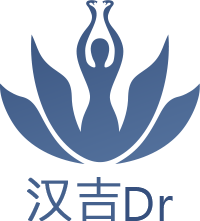
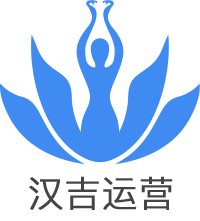
bug修复

diff --git a/src/pages/packagePay/index.vue b/src/pages/packagePay/index.vue
@@ -25,12 +25,20 @@
             <div class="provider" v-if="data.provider">
               <div class="count">{{data.count}}</div>
               <div class="provider-info" v-if="data.provider.info">
+                <img v-if="data.provider.type === 'Doctor'" class="img" :src="data.provider.info.headImageUrl" alt="" />
+                <img v-if="data.provider.type === 'ReservationLocation'" class="hospital-icon" src="/static/images/service_hospital.png" alt="" srcset="">
+                <div class="name-professional">
+                  <div class="provider-name">{{data.provider.info.name}}</div>
+                  <div class="provider-professional" v-if="data.provider.type === 'Doctor'">{{data.provider.info.professionalTitle}}</div>
+                </div>
+              </div>
+              <!-- <div class="provider-info" v-if="data.provider.info">
                 <img class="img" :src="data.provider.info.headImageUrl" alt="" />
                 <div class="name-professional">
                   <div class="provider-name">{{data.provider.info.name}}</div>
                   <div class="provider-professional">{{data.provider.info.professionalTitle}}</div>
                 </div>
-              </div>
+              </div> -->
             </div>
             <div v-else>{{data.count}}</div>
           </div>
@@ -65,7 +73,7 @@ export default {
   onLoad(options) {
     Object.assign(this.$data, this.$options.data())
     this.contractParam = wx.getStorageSync('contractParam')
-    wx.removeStorageSync('contractParam')
+    // wx.removeStorageSync('contractParam')
     this.healthRecordId = this.contractParam.healthRecordId
     this.servicePackageId = this.contractParam.servicePackageId
     this.getHeathRecord()
@@ -85,12 +93,12 @@ export default {
           let provider = this.contractParam.designatedProviders.find(item => item.servicePackageItemId === obj.id)
           obj.provider = provider ? {
             type: provider.provider.type,
-            identity: provider.provider.identity
+            identity: provider.provider.identity,
+            name: provider.provider.name
           } : null
           return obj
         })
-        let doctorIDs = list.filter(obj => obj.provider && obj.provider.type === 'Doctor').map(obj => obj.provider.identity)
-        this.handleData(list, doctorIDs)
+        this.handleData(list)
         this.name = res.name
         this.price = res.sellingFee
       })
@@ -104,7 +112,16 @@ export default {
         this.patientAge = new Date().getFullYear() - new Date(res.dob).getFullYear()
       })
     },
-    handleData(list, doctorIDs) {
+    handleData(list) {
+      list = list.map(obj => {
+        if (obj.provider && obj.provider.type === 'ReservationLocation') {
+          obj.provider.info = {
+            name: obj.provider.name
+          }
+        }
+        return obj
+      })
+      let doctorIDs = list.filter(obj => obj.provider && obj.provider.type === 'Doctor').map(obj => obj.provider.identity)
       if(doctorIDs.length) {
         this.httpFly.post({
         query: `query{
@@ -228,6 +245,11 @@ export default {
                 width: 40rpx;
                 height: 40rpx;
                 border-radius: 50%;
+              }
+              .hospital-icon {
+                display: block;
+                width: 48rpx;
+                height: 48rpx;
               }
               .name-professional {
                 display: flex;

diff --git a/src/pages/appointmentDetail/index.vue b/src/pages/appointmentDetail/index.vue
@@ -30,7 +30,8 @@
             <div class="label">预约人</div>
             <div class="value">{{healthRecordInfo.name}} {{healthRecordInfo.gender}} {{healthRecordInfo.age}}岁</div>
           </div>
-          <textarea class="remark" v-model="remark" disabled @click="showRemark=true"></textarea>
+          <div class="remark" v-if="showRemark">{{remark}}</div>
+          <textarea class="remark" v-else v-model="remark" disabled @click="showRemark=true"></textarea>
         </div>
       </div>
       <div class="content">
@@ -294,12 +295,15 @@ export default {
           }
         }
         .remark {
+          box-sizing: border-box;
           margin-top: 30rpx;
           padding: 20rpx;
           height: 180rpx;
           background: rgba(245,245,245,1);
           border: 1rpx solid rgba(225, 225, 225, 1);
           border-radius: 10rpx;
+          font-size: 30rpx;
+          color: #333;
         }
       }
     }

diff --git a/src/pages/servicePackageLoading/index.vue b/src/pages/servicePackageLoading/index.vue
@@ -119,7 +119,7 @@ export default {
       let servicePackageId = serviceLoadingConfig.servicePackageId
       let healthRecordId = serviceLoadingConfig.healthRecordId
       if(configList.length === step) {
-        let designatedProviders = configList.filter(obj => obj.IsRequiredProvider && obj.ProviderIdentity).map(obj => {
+        let designatedProviders = configList.filter(obj => obj.ProviderIdentity).map(obj => {
           return {
             servicePackageItemId: obj.ItemID,
             provider: {
@@ -177,7 +177,7 @@ export default {
             this.handlerProvider()
           } else {
             wx.showModal({
-              content: '当前服务没有提供者，是否进行选择?',
+              content:  currentConfig.ServiceName + '没有提供者，是否进行选择?',
               success (res) {
                 if (res.confirm) {
                   _self.handlerProvider()

diff --git a/src/pages/wxAuth/index.vue b/src/pages/wxAuth/index.vue
@@ -21,7 +21,7 @@ import { envConfig } from '@/env/index'
 export default {
   data() {
     return {
-      launchList: [envConfig.FILEBASEURL + '/image/launch4.png', envConfig.FILEBASEURL + '/image/launch5.png', envConfig.FILEBASEURL + '/image/launch6.png']
+      launchList: [envConfig.FILEBASEURL + '/image/launch7.png', envConfig.FILEBASEURL + '/image/launch8.png', envConfig.FILEBASEURL + '/image/launch9.png']
     }
   },
   onLoad(options) {
@@ -82,7 +82,7 @@ export default {
   .login-btn {
     margin: 100rpx 100rpx 0;
     height: 100rpx;
-    background: linear-gradient(-20deg,rgba(61,90,139,1),rgba(96,129,177,1));
+    background:linear-gradient(-45deg,rgba(34,172,251,1),rgba(64,139,241,1));
     border-radius: 50rpx;
     text-align: center;
     line-height: 100rpx;

diff --git a/src/pages/inspection/index.vue b/src/pages/inspection/index.vue
@@ -194,7 +194,7 @@ export default {
         skipCount: pageList[processIndex] * 10,
         maxResultCount: 10,
         LocationCode: wx.getStorageSync("activeInfo")['region'],
-        isFinished: processIndex === 1 ? true : null
+        isFinished: processIndex === 1 ? true : false
[1 lines of base64/hex data omitted]
         this.totalCount = res.totalCount
         let result = res.items.map(obj => {

diff --git a/src/components/appointment.vue b/src/components/appointment.vue
@@ -91,6 +91,7 @@ export default {
         contractID: this.contractID,
         LocationCode: wx.getStorageSync('activeInfo')['region']
[1 lines of base64/hex data omitted]
+        this.list = []
         this.list = this.list.concat(res.items.map(obj => {
           return {
             key: obj.name,

diff --git a/src/pages/wxAuthPhone/index.vue b/src/pages/wxAuthPhone/index.vue
@@ -140,12 +140,12 @@ export default {
   .login-btn {
     margin-top: 40rpx;
     height: 100rpx;
-    border: 1px solid rgba(75, 195, 212, 1);
+    border: 1px solid #408BF1;
     border-radius: 50rpx;
     text-align: center;
     line-height: 100rpx;
     font-size: 32rpx;
-    color: #4dc5d9;
+    color: #408BF1;
   }
   .tip {
     margin-top: 76rpx;

diff --git a/src/assets/css/common.css b/src/assets/css/common.css
@@ -53,7 +53,7 @@ textarea {
 
 .primary-btn {
   background:linear-gradient(-45deg,rgba(34,172,251,1),rgba(64,139,241,1));
-  box-shadow: 0 5rpx 16rpx 0 rgba(34, 153, 84, 0.35);
+  /* box-shadow: 0 5rpx 16rpx 0 rgba(34, 153, 84, 0.35); */
   border-radius: 44rpx;
   text-align: center;
   line-height: 88rpx;

diff --git a/src/assets/css/color.scss b/src/assets/css/color.scss
@@ -1,1 +1,1 @@
-$themeColor: #36507E;
+$themeColor: #408BF1;
